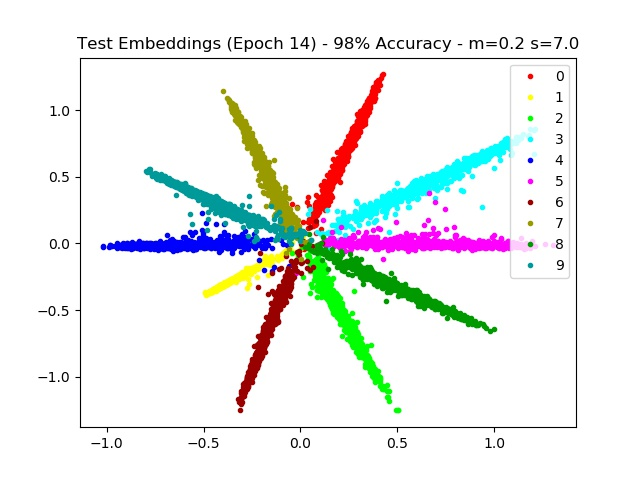
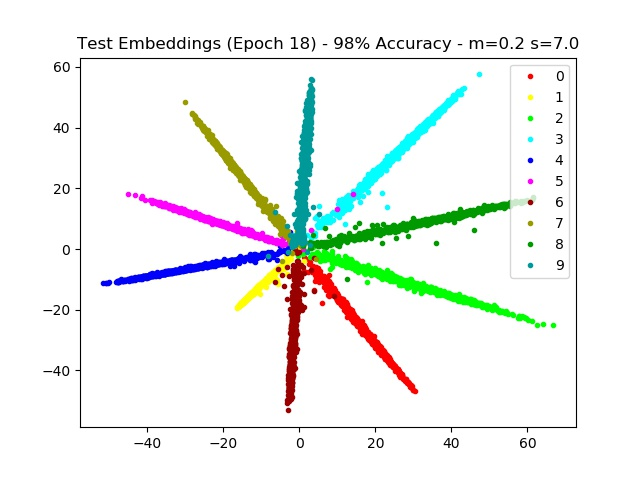
Added working softmax trainer. Changed arc trainer parameters a bit

diff --git a/trainers.py b/trainers.py
@@ -7,7 +7,7 @@ import torch.optim.lr_scheduler as lr_scheduler
 from  torch.utils.data import DataLoader
 from CenterLoss import CenterLoss
 from losses import ArcLinear, ContrastiveLoss
-from models import ArcNet, ContrastiveNet
+from models import ArcNet, ContrastiveNet, CenterNet
 import visual
 
 
@@ -155,11 +155,12 @@ class ArcTrainer(BaseTrainer):
         self.margin = margin
         self.s = s
         self.optimizers = [
-                optim.SGD(self.model.parameters(), lr=0.001, momentum=0.9, weight_decay=0.0005),
+                optim.SGD(self.model.parameters(), lr=0.005, momentum=0.9, weight_decay=0.0005),
                 optim.SGD(self.arc.parameters(), lr=0.01)
         ]
         self.schedulers = [
-                lr_scheduler.StepLR(self.optimizers[0], 20, gamma=0.5)
+                lr_scheduler.StepLR(self.optimizers[0], 8, gamma=0.2),
+                lr_scheduler.StepLR(self.optimizers[1], 8, gamma=0.2)
         ]
     
     def feed_forward(self, x, y):
@@ -225,16 +226,15 @@ class ContrastiveTrainer(BaseTrainer):
 
 class SoftmaxTrainer(BaseTrainer):
     
-    def __init__(self, trainset, testset, device, batch_size=150):
+    def __init__(self, trainset, testset, device, batch_size=100):
         train_loader = DataLoader(trainset, batch_size, shuffle=True, num_workers=4)
-        test_loader = DataLoader(testset, batch_size, shuffle=False, num_workers=4)
+        test_loader = DataLoader(testset, batch_size=1000, shuffle=False, num_workers=4)
         super(SoftmaxTrainer, self).__init__(
-                ContrastiveNet(),
+                CenterNet(),
                 device,
-                ContrastiveLoss(device, margin),
+                nn.NLLLoss(),
                 train_loader,
                 test_loader)
-        self.margin = margin
         self.optimizers = [
                 optim.SGD(self.model.parameters(), lr=0.01, momentum=0.9, weight_decay=0.0005)
         ]
@@ -243,13 +243,14 @@ class SoftmaxTrainer(BaseTrainer):
         ]
     
     def batch_accuracy(self, logits, y):
-        return self.loss_fn.eval(logits, y)
+        _, predicted = torch.max(logits.data, 1)
+        return (predicted == y.data).sum(), y.size(0)
     
     def feed_forward(self, x, y):
-        return self.embed(x)
+        return self.model(x)[1]
         
     def embed(self, x):
-        return self.model(x)
+        return self.model(x)[0]
         
     def get_schedulers(self):
         return self.schedulers
@@ -258,8 +259,7 @@ class SoftmaxTrainer(BaseTrainer):
         return self.optimizers
     
     def get_best_acc_plot_title(self, epoch, accuracy):
-        # TODO ATTENTION !!!! Euclidean distance is hardcoded in the title ! It should be changed once we introduce other distances
-        return f"Test Embeddings (Epoch {epoch}) - {accuracy:.0f}% Accuracy - m={self.margin} - Euclidean Distance"
+        return f"Test Embeddings (Epoch {epoch}) - {accuracy:.0f}% Accuracy"
 
 
 class CenterTrainer:

diff --git a/main.py b/main.py
@@ -1,12 +1,15 @@
 import torch
 from torchvision import datasets, transforms
-from trainers import ContrastiveTrainer, ArcTrainer
+from trainers import ContrastiveTrainer, ArcTrainer, SoftmaxTrainer
 
 def arc_trainer():
     return ArcTrainer(trainset, testset, device, nfeat=2, nclass=10)
 
 def contrastive_trainer():
     return ContrastiveTrainer(trainset, testset, device, margin=2.0)
+
+def softmax_trainer():
+    return SoftmaxTrainer(trainset, testset, device)
 
 # Config
 use_cuda = torch.cuda.is_available() and True
@@ -23,5 +26,5 @@ testset = datasets.MNIST(mnist_path, download=True, train=False, transform=trans
 
 # Train
 trainer = arc_trainer()
-trainer.train(epochs=20, log_interval=40, train_accuracy=True)
+trainer.train(epochs=50, log_interval=40, train_accuracy=True)
 
